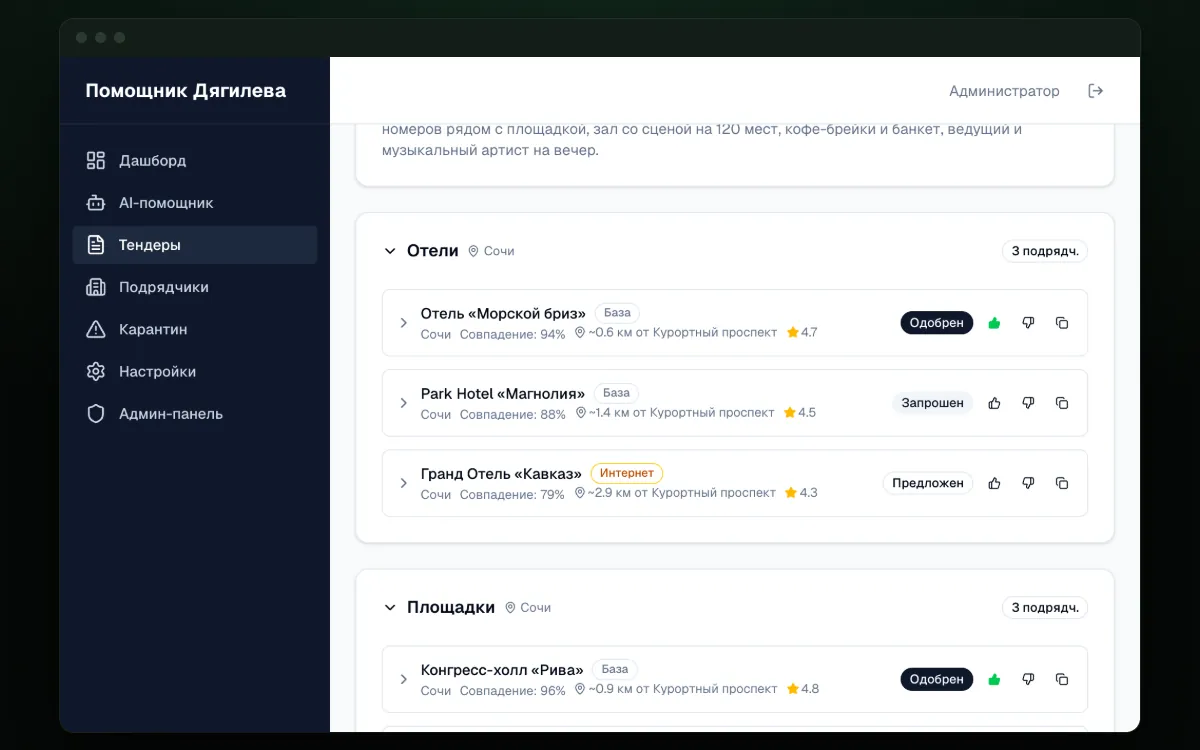
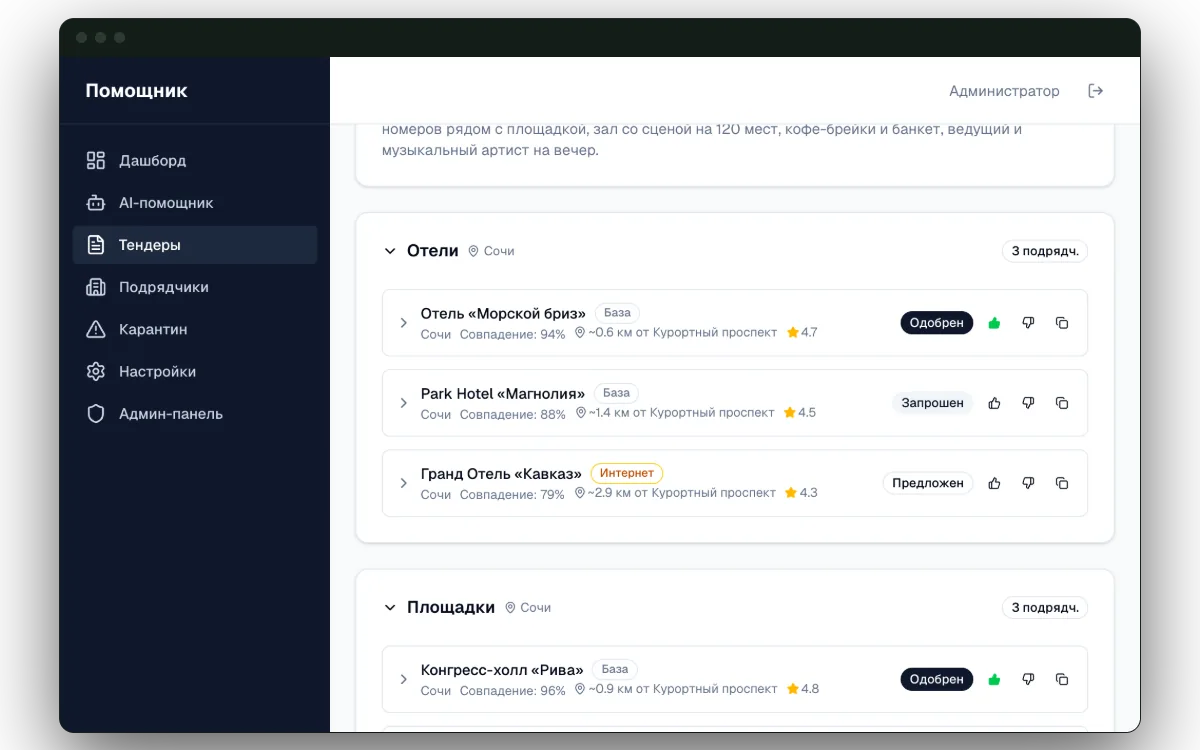
Кейсы: без названий продуктов и полоски, фон снимков прозрачный
В снимках подбора подрядчиков и рабочей среды убраны названия и логотип
продуктов. С экранов делегатов убрана тонкая полоска шапки. Фон картинок
прозрачный, фон врезки в карточке тоже, чтобы не было светлой плашки.

Changed region(s): [[0.0, 0.0, 1.0, 1.0], [0.1542, 0.092, 0.2467, 0.1533]]

diff --git a/src/styles.css b/src/styles.css
@@ -962,7 +962,7 @@ footer .legal-line a:hover, .legal-line a:hover { color: var(--m-white); }
   font-size: clamp(1.45rem, 2.3vw, 1.95rem); line-height: 1.15; letter-spacing: -0.01em;
 }
 .v1-case-compact .v1-case-ba { margin-top: 16px; }
-.v1-case-compact .v1-case-visual { border: 0; }
+.v1-case-compact .v1-case-visual { border: 0; background: transparent; }
 /* Видео — это запись экрана: показываем его целиком, с полями, а не обрезаем
    под карточку, иначе по краям рвутся надписи. */
 .v1-case-compact .v1-case-visual video { object-fit: contain; }
